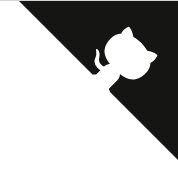
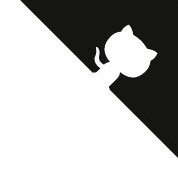
Updated code and replaced image

diff --git a/AMACCLU-portal/Index.html b/AMACCLU-portal/Index.html
@@ -3,10 +3,10 @@
   <head>
     <meta charset="UTF-8" />
     <meta name="viewport" content="width=device-width, initial-scale=1.0"/>
-    <title>AMACC La Union Student Wifi Portal</title>
+    <title>AMACC La Union Campus</title>
     <script src="https://cdn.tailwindcss.com"></script>
     <link rel="stylesheet" href="style.css" />
-  </head>
+  </head>ff
 
   <style>
     .bg-amabldg {
@@ -26,20 +26,20 @@
       <img
         src="pictures/githubcorner.png"
         alt="GitHub"
-        class="w-20 h-20"
+        class="bg-[#2563eb] w-20 h-20"
         title="Github Repo link"
       />
     </a>
 
     <!-- Navbar -->
-    <nav class="bg-[#4F42B5] shadow p-4 w-full fixed top-0 left-0 z-40">
+    <nav class="bg-[#2563eb] shadow p-4 w-full fixed top-0 left-0 z-40">
       <div class="flex items-center justify-between max-w-6xl mx-auto w-full px-4">
         <!-- Logo -->
         <img src="pictures/amalogo.png" alt="Logo" class="h-12" />
 
         <!-- Title -->
-        <h1 class="text-lg text-gray-800 text-center flex-grow font-semibold">
-          AMACC La Union Student Wifi Portal
+        <h1 class="text-lg text-white text-center flex-grow font-semibold">
+          AMACC La Union Campus Student Wifi Portal
         </h1>
 
         <!-- Spacer to balance layout -->
